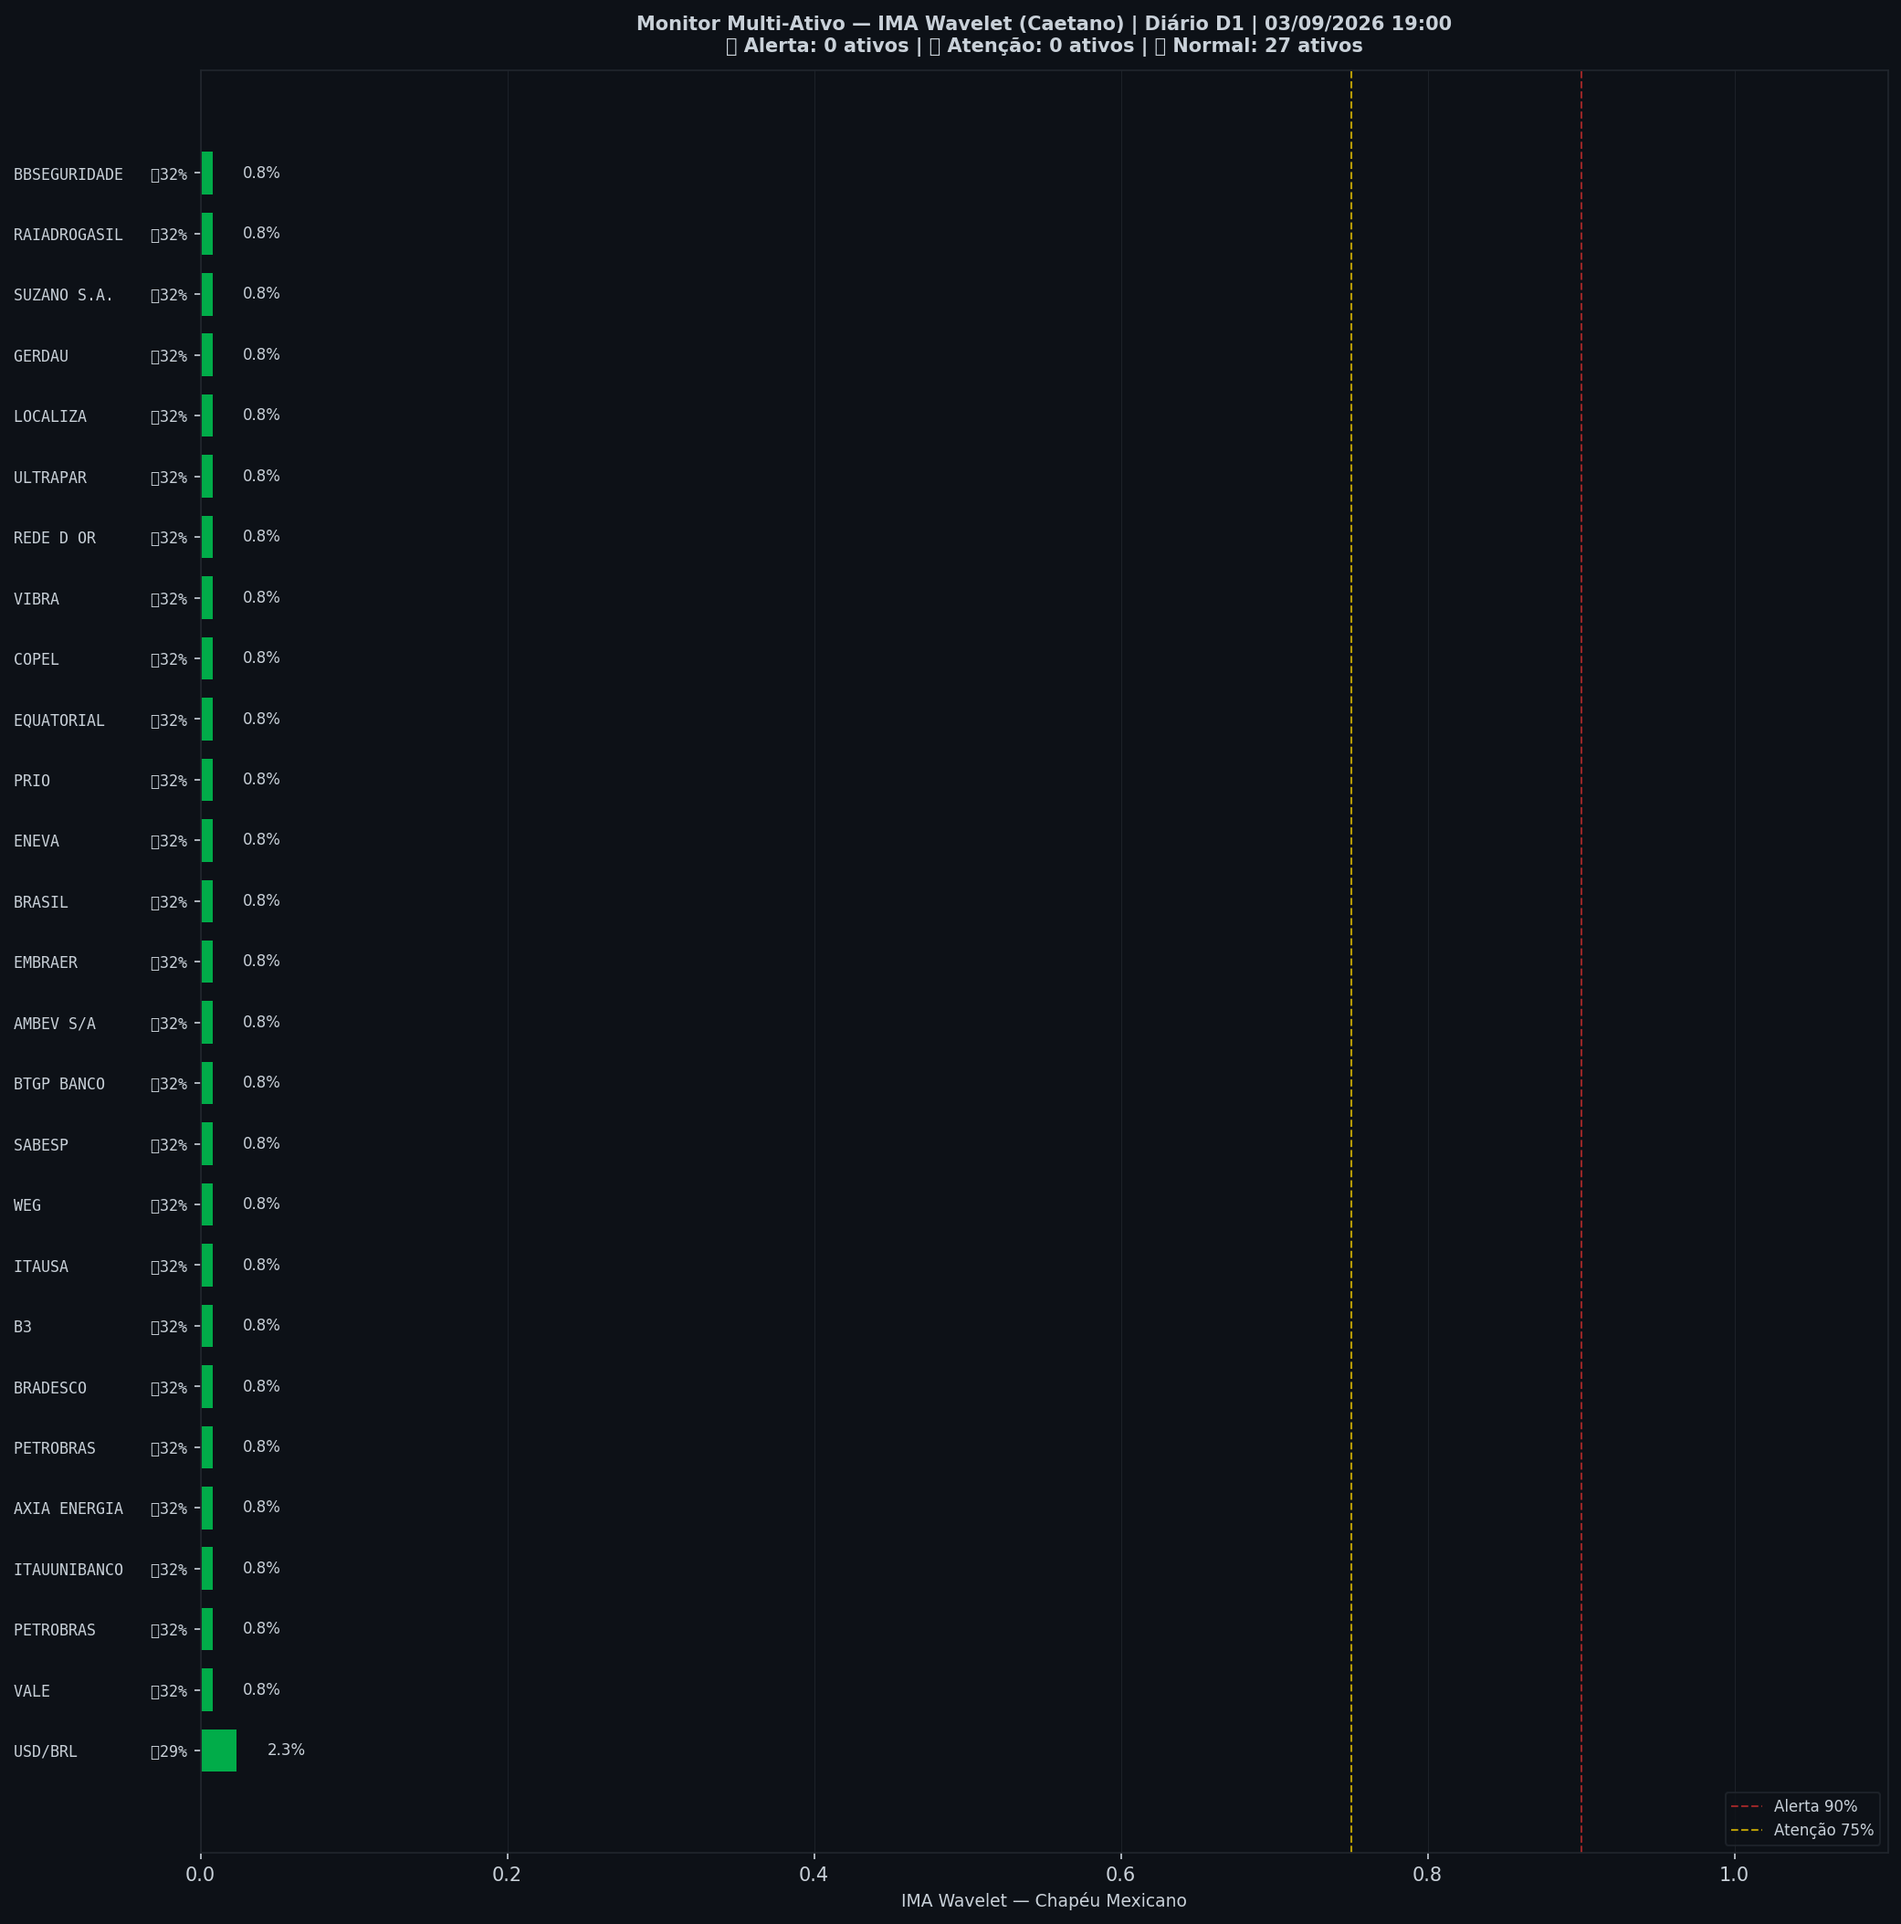
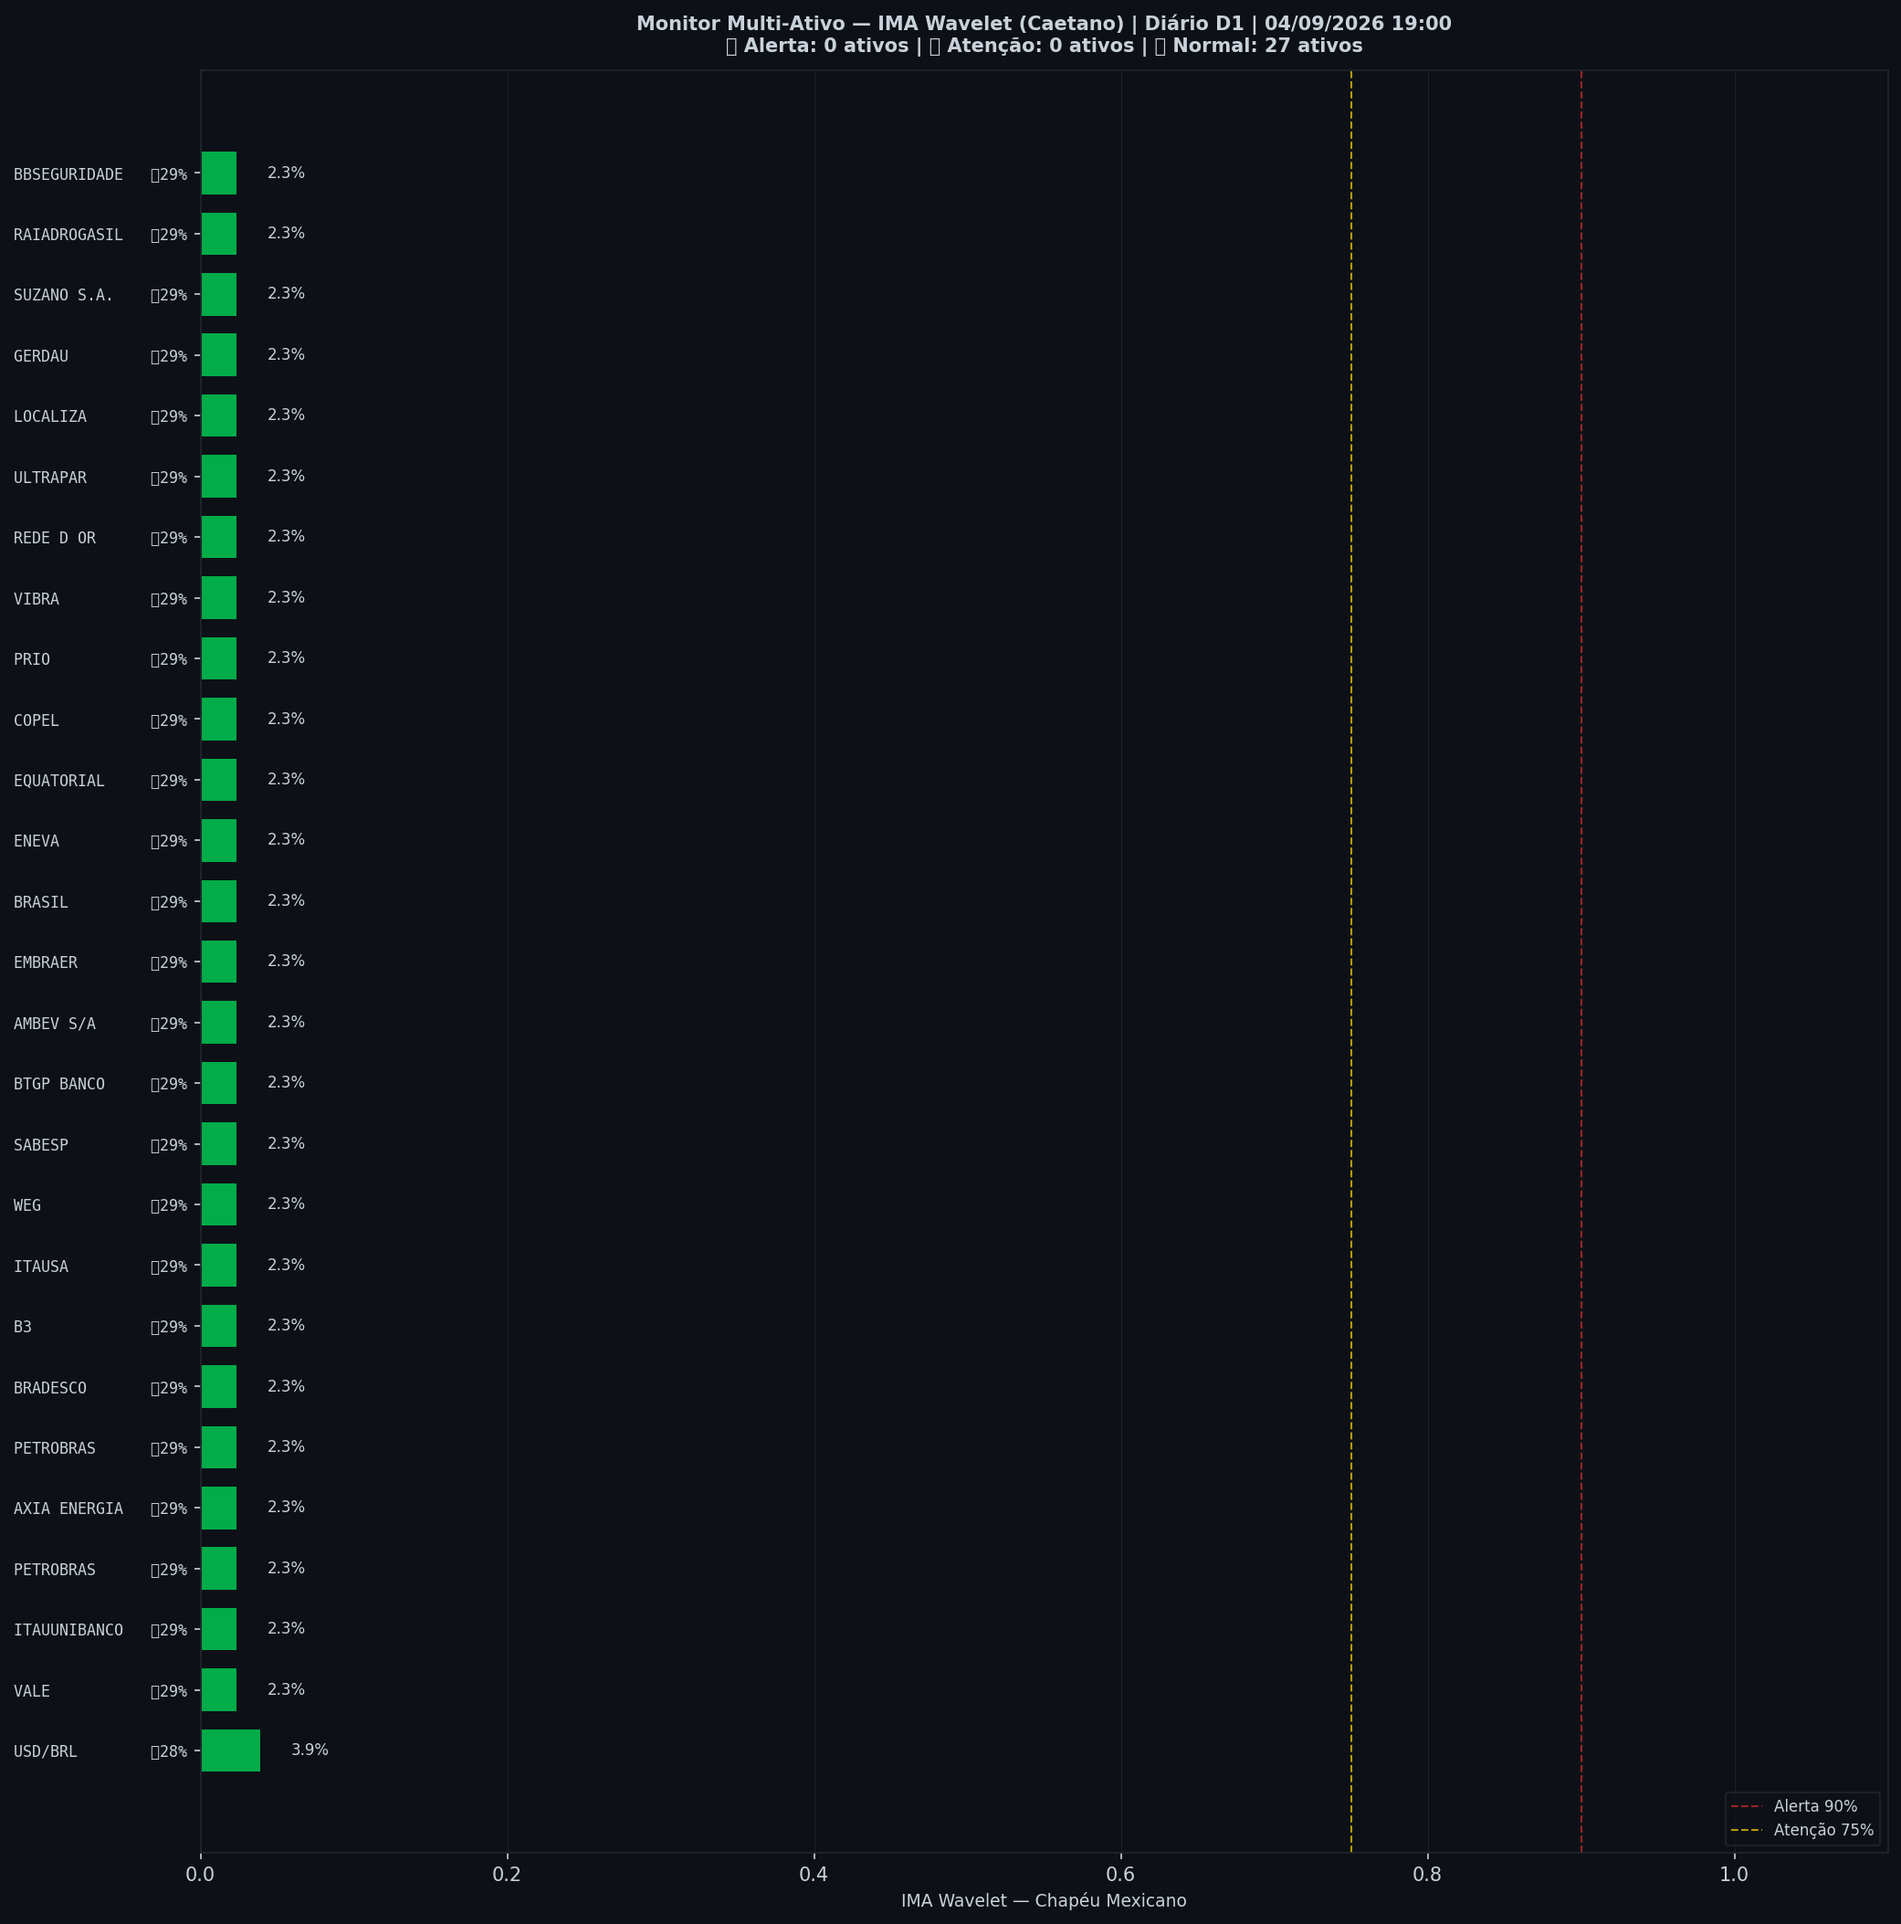
🤖 Auto: Sinal 04/09/2026 19:00

Changed region(s): [[0.0937, 0.0617, 0.1249, 0.8946], [0.0312, 0.8021, 0.0624, 0.8638], [0.1249, 0.8946, 0.1561, 0.9255]]

diff --git a/content/diario/2026-09-03.md b/content/diario/2026-09-03.md
@@ -1,0 +1,105 @@
+---
+title: "🟢 Diário 03/09/2026 — VERDE"
+date: 2026-09-04
+tags: [diario]
+---
+
+> [!success] 🟢 **VERDE** — Risco 6% · ▲ +3 p.p. vs leitura anterior
+> `█░░░░░░░░░░░░░░░░░░░`
+> Mercado sem sinais relevantes de estresse.
+
+
+| Indicador | Valor |
+|---|---|
+| 🔴 ζ Crash — severidade da queda em curso | **10%** |
+| 🔵 ζ Entrada — estrutura de fundo | 1% |
+| 🫧 LPPL DS-Confidence | 0% |
+| 📊 Ibovespa | 185.147 pts |
+
+![Gráfico do sinal](../graficos/sinal_diario.png)
+
+## Últimos 30 pregões
+
+| Data | Zona | Risco | IMA Crash | Entrada | LPPL |
+|---|---|---|---|---|---|
+| 2026-09-03 21:00 | 🟢 VERDE | **6%** | 10% | 1% | 0% |
+| 2026-09-02 21:00 | 🟢 VERDE | **3%** | 5% | 5% | 0% |
+| 2026-09-01 21:00 | 🟢 VERDE | **8%** | 14% | 2% | 0% |
+| 2026-08-31 21:00 | 🟢 VERDE | **8%** | 12% | 0% | 0% |
+| 2026-08-30 21:00 | 🟢 VERDE | **8%** | 12% | 0% | 0% |
+| 2026-08-27 21:00 | 🟢 VERDE | **6%** | 9% | 0% | 0% |
+| 2026-08-26 21:00 | 🟢 VERDE | **4%** | 6% | 1% | 0% |
+| 2026-08-25 21:00 | 🟢 VERDE | **2%** | 4% | 6% | 0% |
+| 2026-08-24 21:00 | 🟢 VERDE | **0%** | 1% | 14% | 0% |
+| 2026-08-23 21:00 | 🟢 VERDE | **0%** | 0% | 21% | 0% |
+| 2026-08-20 21:00 | 🟢 VERDE | **0%** | 0% | 25% | 0% |
+| 2026-08-19 21:00 | 🟢 VERDE | **0%** | 0% | 27% | 0% |
+| 2026-08-18 21:00 | 🟢 VERDE | **0%** | 0% | 27% | 0% |
+| 2026-08-17 21:00 | 🟢 VERDE | **0%** | 0% | 26% | 0% |
+| 2026-08-16 21:00 | 🟢 VERDE | **0%** | 0% | 25% | 0% |
+| 2026-08-13 21:00 | 🟢 VERDE | **0%** | 0% | 23% | 0% |
+| 2026-08-12 21:00 | 🟢 VERDE | **0%** | 0% | 20% | 0% |
+| 2026-08-11 21:00 | 🟢 VERDE | **0%** | 0% | 65% | 0% |
+| 2026-08-10 21:00 | 🟢 VERDE | **0%** | 1% | 62% | 0% |
+| 2026-08-09 21:00 | 🟢 VERDE | **1%** | 2% | 7% | 0% |
+| 2026-08-06 21:00 | 🟢 VERDE | **0%** | 1% | 48% | 0% |
+| 2026-08-05 21:00 | 🟢 VERDE | **0%** | 1% | 50% | 0% |
+| 2026-08-04 21:00 | 🟢 VERDE | **0%** | 0% | 55% | 0% |
+| 2026-08-03 21:00 | 🟢 VERDE | **0%** | 0% | 59% | 0% |
+| 2026-08-02 21:00 | 🟢 VERDE | **0%** | 0% | 62% | 0% |
+| 2026-07-30 21:00 | 🟢 VERDE | **0%** | 0% | 65% | 0% |
+| 2026-07-29 21:00 | 🟢 VERDE | **0%** | 0% | 68% | 0% |
+| 2026-07-28 21:00 | 🟢 VERDE | **0%** | 0% | 69% | 0% |
+| 2026-07-27 21:00 | 🟢 VERDE | **0%** | 1% | 68% | 0% |
+| 2026-07-26 21:00 | 🟢 VERDE | **0%** | 1% | 71% | 0% |
+
+## Monitor Multi-Ativo
+
+**0% dos ativos em tensão** (0🔴 0🟡) — quanto mais ativos disparam juntos, mais confiável o sinal.
+
+| Zona | Ativo | Setor | IMA Crash | IMA Entrada |
+|---|---|---|---|---|
+| 🟢 | **USD/BRL** | Câmbio | 3.9% | 28.1% |
+| 🟢 | **VALE** | Mineração | 2.3% | 28.9% |
+| 🟢 | **ITAUUNIBANCO** | Financeiro | 2.3% | 28.9% |
+| 🟢 | **PETROBRAS** | Petróleo | 2.3% | 28.9% |
+| 🟢 | **AXIA ENERGIA** | Energia | 2.3% | 28.9% |
+| 🟢 | **PETROBRAS** | Petróleo | 2.3% | 28.9% |
+| 🟢 | **BRADESCO** | Financeiro | 2.3% | 28.9% |
+| 🟢 | **B3** | Financeiro | 2.3% | 28.9% |
+| 🟢 | **ITAUSA** | Financeiro | 2.3% | 28.9% |
+| 🟢 | **WEG** | Industrial | 2.3% | 28.9% |
+| 🟢 | **SABESP** | Saneamento | 2.3% | 28.9% |
+| 🟢 | **BTGP BANCO** | Financeiro | 2.3% | 28.9% |
+| 🟢 | **AMBEV S/A** | Consumo | 2.3% | 28.9% |
+| 🟢 | **EMBRAER** | Outros | 2.3% | 28.9% |
+| 🟢 | **BRASIL** | Financeiro | 2.3% | 28.9% |
+| 🟢 | **ENEVA** | Energia | 2.3% | 28.9% |
+| 🟢 | **EQUATORIAL** | Energia | 2.3% | 28.9% |
+| 🟢 | **COPEL** | Energia | 2.3% | 28.9% |
+| 🟢 | **PRIO** | Petróleo | 2.3% | 28.9% |
+| 🟢 | **VIBRA** | Energia | 2.3% | 28.9% |
+| 🟢 | **REDE D OR** | Saúde | 2.3% | 28.9% |
+| 🟢 | **ULTRAPAR** | Outros | 2.3% | 28.9% |
+| 🟢 | **LOCALIZA** | Aluguel | 2.3% | 28.9% |
+| 🟢 | **GERDAU** | Siderurgia | 2.3% | 28.9% |
+| 🟢 | **SUZANO S.A.** | Papel/Celulose | 2.3% | 28.9% |
+| 🟢 | **RAIADROGASIL** | Outros | 2.3% | 28.9% |
+| 🟢 | **BBSEGURIDADE** | Financeiro | 2.3% | 28.9% |
+
+![Monitor multi-ativo](../graficos/multi_diario.png)
+
+*Página atualizada em 04/09/2026 19:00 BRT (leitura da barra de 2026-09-03 BRT).*
+
+> [!info]- Como interpretar (clique para expandir)
+> - **ζ Crash**: fração dos coeficientes wavelet acima do corte (Caetano & Yoneyama 2009). Escala absoluta: ζ=0,90 = 90% dos coeficientes anômalos — historicamente, quedas com ζ≥0,90 foram mais fundas e mais longas. **Mede a severidade do movimento em curso, não prevê o início da queda.**
+> - **ζ Entrada**: coeficientes negativos além do corte — estrutura de fundo, possível região de compra.
+> - **LPPL DS-Confidence**: fração de janelas (60–504 pregões) em que o modelo de bolha de Sornette produz um ajuste válido. 30% já é relevante; acima de 50% é forte evidência de estrutura de bolha.
+> - **Zonas com histerese**: o sinal só muda de zona ao cruzar o limiar de entrada, e só volta ao cruzar o de saída — evita flip-flop diário.
+
+
+---
+*Sinal de Crise B3 v4 · IMA Wavelet ([Caetano & Yoneyama, Physica-A 2007](https://doi.org/10.1016/j.physa.2007.03.054)) + LPPL DS-Confidence (Sornette, ETH-Zurich) · [Metodologia](metodologia) · [Histórico](historico)*
+
+> [!quote]- Aviso
+> Estudo acadêmico. Não constitui recomendação de investimento.

diff --git a/content/index.md b/content/index.md
@@ -8,19 +8,19 @@ tags: [home]
 
 Monitoramento diário e intraday do Ibovespa — **IMA Wavelet** (Prof. Marco Antonio Leonel Caetano, ITA/INSPER) + **LPPL DS-Confidence** (Prof. Didier Sornette, ETH-Zurich).
 
-*Última atualização: 04/09/2026 17:30 BRT · ^BVSP · Intraday 15min · v4*
+*Última atualização: 04/09/2026 19:00 BRT · ^BVSP · Diário D1 · v4*
 
-> [!success] 🟢 **VERDE** — Risco 0% · ＝ +0 p.p. vs leitura anterior
-> `░░░░░░░░░░░░░░░░░░░░`
+> [!success] 🟢 **VERDE** — Risco 6% · ▲ +3 p.p. vs leitura anterior
+> `█░░░░░░░░░░░░░░░░░░░`
 > Mercado sem sinais relevantes de estresse.
 
 
 | Indicador | Valor |
 |---|---|
-| 🔴 ζ Crash — severidade da queda em curso | **0%** |
-| 🔵 ζ Entrada — estrutura de fundo | 49% |
+| 🔴 ζ Crash — severidade da queda em curso | **10%** |
+| 🔵 ζ Entrada — estrutura de fundo | 1% |
 | 🫧 LPPL DS-Confidence | 0% |
-| 📊 Ibovespa | 184.890 pts |
+| 📊 Ibovespa | 185.147 pts |
 
 **Multi-ativo:** 0% em tensão (0🔴 0🟡 de 27 ativos)
 
@@ -32,8 +32,13 @@ Monitoramento diário e intraday do Ibovespa — **IMA Wavelet** (Prof. Marco An
 
 | Data | Zona | Risco | IMA | LPPL |
 |---|---|---|---|---|
-| [04 Sep 2026](diario/2026-09-04) | 🟢 VERDE | **0%** | 0% | 0% |
-| [03 Sep 2026](diario/2026-09-03) | 🟢 VERDE | **0%** | 0% | 0% |
+| [03 Sep 2026](diario/2026-09-03) | 🟢 VERDE | **6%** | 10% | 0% |
+| [02 Sep 2026](diario/2026-09-02) | 🟢 VERDE | **3%** | 5% | 0% |
+| [01 Sep 2026](diario/2026-09-01) | 🟢 VERDE | **8%** | 14% | 0% |
+| [31 Aug 2026](diario/2026-08-31) | 🟢 VERDE | **8%** | 12% | 0% |
+| [30 Aug 2026](diario/2026-08-30) | 🟢 VERDE | **8%** | 12% | 0% |
+| [27 Aug 2026](diario/2026-08-27) | 🟢 VERDE | **6%** | 9% | 0% |
+| [26 Aug 2026](diario/2026-08-26) | 🟢 VERDE | **4%** | 6% | 0% |
 
 ## Navegação
 

diff --git a/content/historico.md b/content/historico.md
@@ -7,6 +7,7 @@ tags: [historico]
 
 | Data | Modo | Zona | Risco | IMA | LPPL |
 |---|---|---|---|---|---|
+| 2026-09-03 | diario | 🟢 VERDE | 6% | 10% | 0% |
 | 2026-09-04 16:45 | intraday | 🟢 VERDE | 0% | 0% | 0% |
 | 2026-09-04 16:30 | intraday | 🟢 VERDE | 0% | 0% | 0% |
 | 2026-09-04 16:15 | intraday | 🟢 VERDE | 0% | 0% | 0% |
